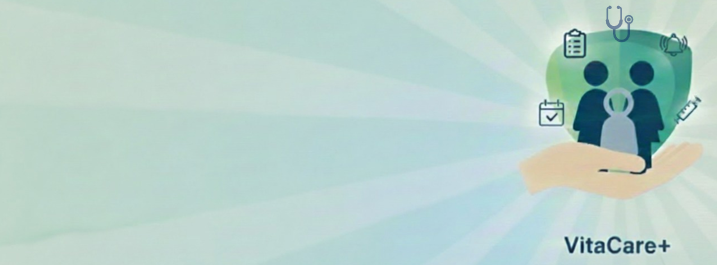
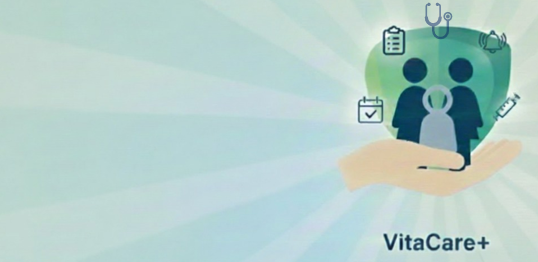
Changes

diff --git a/src/pages/Landing.tsx b/src/pages/Landing.tsx
@@ -39,7 +39,7 @@ const Landing = () => {
       <section className="relative overflow-hidden pt-32 pb-20 px-4 min-h-[600px] flex items-center">
         {/* Hintergrundbild mit Strahlen */}
         <div 
-          className="absolute inset-0 bg-cover bg-center bg-no-repeat"
+          className="absolute inset-0 bg-[length:100%_100%] bg-center bg-no-repeat"
           style={{ backgroundImage: `url(${heroBackground})` }}
         />
         
